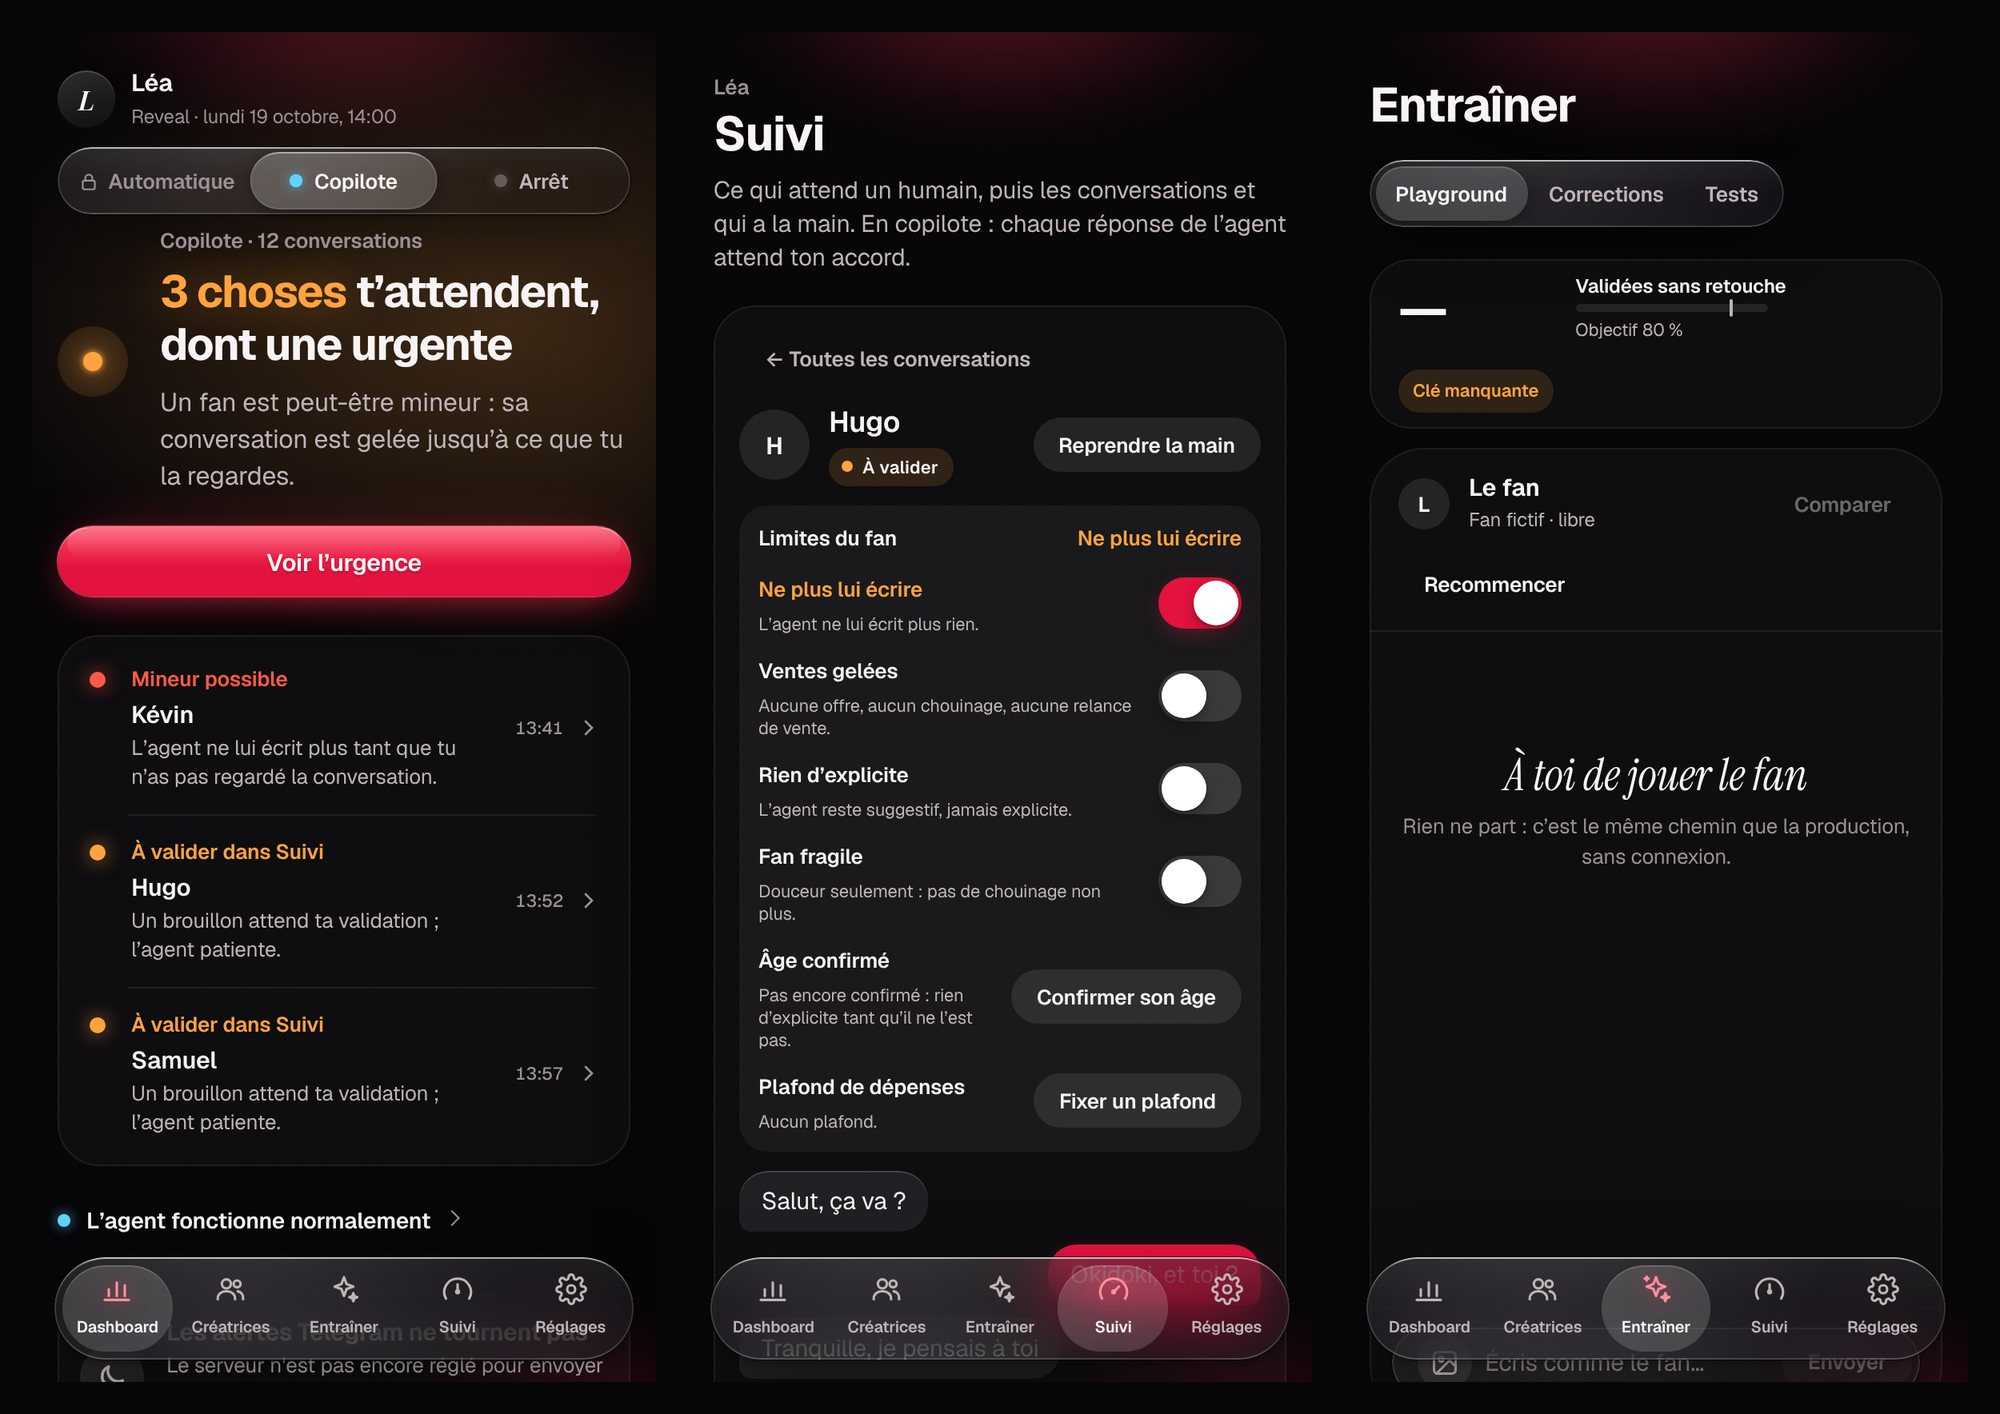
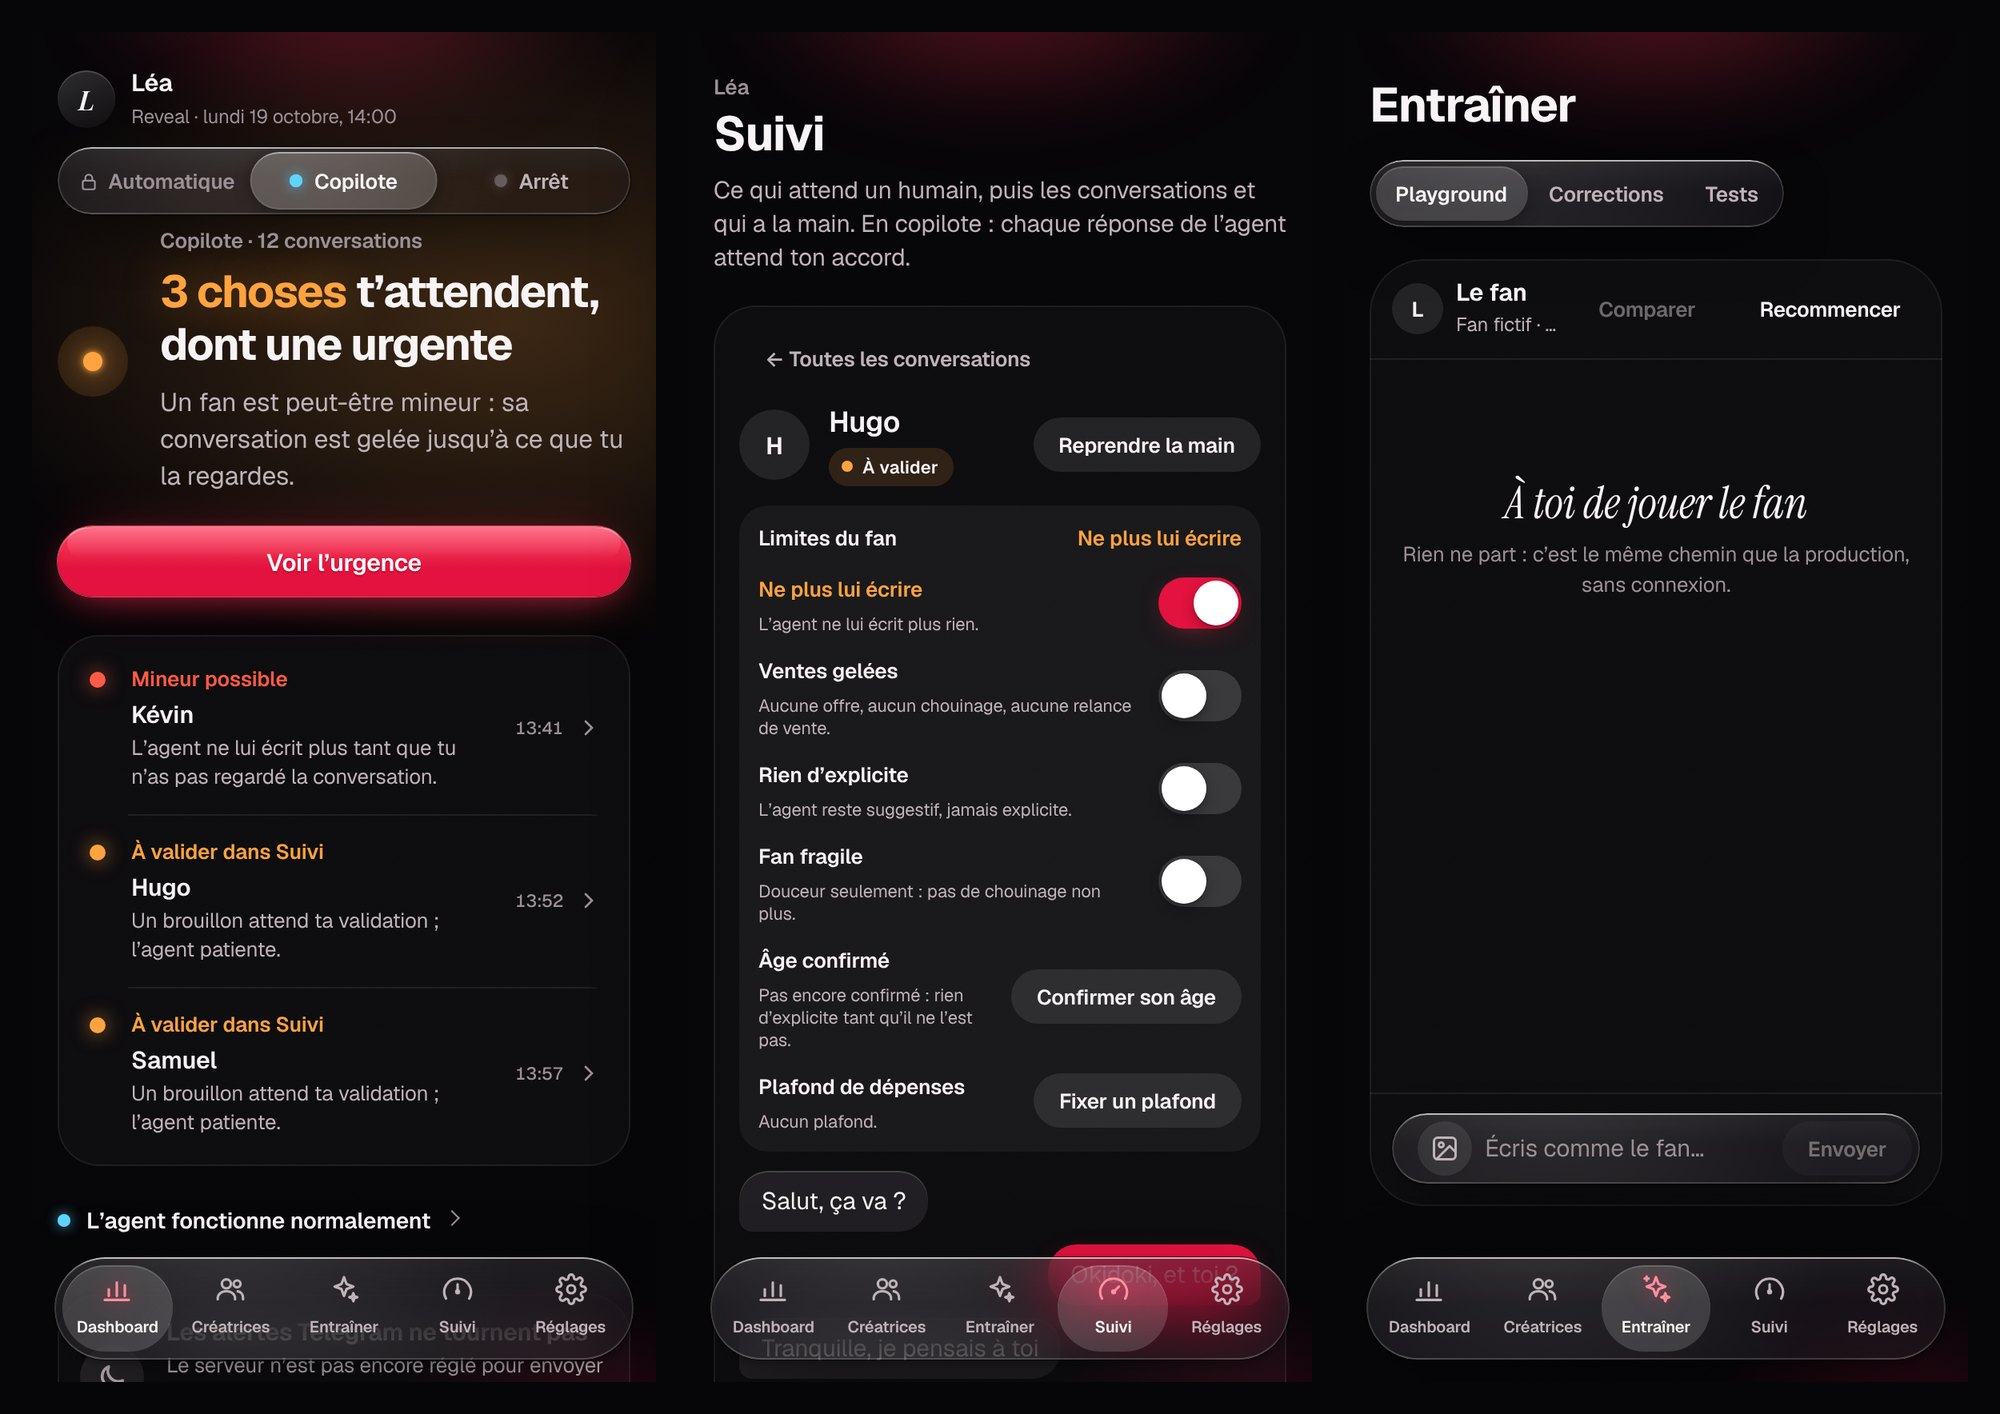
feat(web): phone pass, the Playground holds the screen above the tabs
Claude-Session: https://claude.ai/code/session_013n6wZ4diAF7PiyQ7YNMcEr

diff --git a/apps/web/src/shell/layout.tsx b/apps/web/src/shell/layout.tsx
@@ -1,6 +1,6 @@
 import { placeTabBarLens } from '@nirvana/design-system';
 import { Link, useRouterState, type LinkProps } from '@tanstack/react-router';
-import { useLayoutEffect, useRef, type JSX, type ReactNode } from 'react';
+import { useEffect, useLayoutEffect, useRef, type JSX, type ReactNode } from 'react';
 
 import { cn } from '@/lib/utils';
 
@@ -125,18 +125,52 @@ export function SubNav({ items, label }: { items: readonly SubNavItem[]; label: 
     placed.current = true;
   }, [pathname]);
 
+  // On a phone a section's tabs can be wider than the screen: the nav scrolls, keeps the active tab in view and fades
+  // the edge that hides more tabs, so none is cut off without a sign.
+  useLayoutEffect(() => {
+    const nav = navRef.current;
+    const active = nav?.querySelector('[aria-current="page"]');
+    if (nav === null || !(active instanceof HTMLElement) || nav.scrollWidth <= nav.clientWidth) return;
+    nav.scrollLeft = active.offsetLeft - (nav.clientWidth - active.offsetWidth) / 2;
+  }, [pathname]);
+
+  useEffect(() => {
+    const nav = navRef.current;
+    if (nav === null) return;
+    const mark = (): void => {
+      const start = nav.scrollLeft > 1;
+      const end = nav.scrollLeft + nav.clientWidth < nav.scrollWidth - 1;
+      nav.dataset['more'] = start && end ? 'both' : start ? 'start' : end ? 'end' : 'none';
+    };
+    mark();
+    nav.addEventListener('scroll', mark, { passive: true });
+    const observer = new ResizeObserver(mark);
+    observer.observe(nav);
+    return () => {
+      nav.removeEventListener('scroll', mark);
+      observer.disconnect();
+    };
+  }, []);
+
   return (
-    <nav className="nv-subnav nv-glass nv-glass--thin" aria-label={label} ref={navRef}>
-      <span className="nv-subnav__thumb" ref={thumbRef} aria-hidden="true" />
-      {items.map((item) => (
-        <Link key={item.to} to={item.to} className="nv-subnav__item" activeProps={{ 'aria-current': 'page' }}>
-          {item.label}
-          {item.count === undefined || item.count === 0 ? null : (
-            <span className="nv-subnav__count">{item.count}</span>
-          )}
-        </Link>
-      ))}
-    </nav>
+    <div className="nv-subnav-pill nv-glass nv-glass--thin">
+      <nav className="nv-subnav" aria-label={label} ref={navRef}>
+        <span className="nv-subnav__thumb" ref={thumbRef} aria-hidden="true" />
+        {items.map((item) => (
+          <Link
+            key={item.to}
+            to={item.to}
+            className="nv-subnav__item"
+            activeProps={{ 'aria-current': 'page' }}
+          >
+            {item.label}
+            {item.count === undefined || item.count === 0 ? null : (
+              <span className="nv-subnav__count">{item.count}</span>
+            )}
+          </Link>
+        ))}
+      </nav>
+    </div>
   );
 }
 

diff --git a/apps/web/src/shell/shell.css b/apps/web/src/shell/shell.css
@@ -537,6 +537,13 @@
 }
 
 /* ── Section tabs: one glass capsule, a lit thumb that slides ── */
+/* The glass pill around a section's tabs: it stays put while the tabs scroll inside it on a phone. */
+.nv-subnav-pill {
+  --_radius: var(--nv-radius-full);
+  display: inline-flex;
+  min-width: 0;
+  max-width: 100%;
+}
 .nv-subnav {
   --_radius: var(--nv-radius-full);
   position: relative;
@@ -688,6 +695,11 @@
     overflow: visible;
     padding: 8px 16px calc(110px + env(safe-area-inset-bottom, 0px));
   }
+  /* A fill page takes exactly the screen above the tab bar: its own column scrolls, never the composer away. */
+  .nv-page--fill {
+    height: calc(100dvh - 118px - env(safe-area-inset-bottom, 0px));
+    min-height: 0;
+  }
   .nv-rail {
     --_radius: var(--nv-radius-full);
     position: fixed;
@@ -732,6 +744,16 @@
     max-width: 100%;
     overflow-x: auto;
     scrollbar-width: none;
+  }
+  /* More tabs past an edge: that edge fades out instead of cutting a tab in two. */
+  .nv-subnav[data-more='end'] {
+    mask-image: linear-gradient(to right, #000 calc(100% - 40px), transparent);
+  }
+  .nv-subnav[data-more='start'] {
+    mask-image: linear-gradient(to left, #000 calc(100% - 40px), transparent);
+  }
+  .nv-subnav[data-more='both'] {
+    mask-image: linear-gradient(to right, transparent, #000 40px, #000 calc(100% - 40px), transparent);
   }
   .nv-subnav__item {
     padding: 0 12px;

diff --git a/apps/web/src/screens/train/playground/playground.css b/apps/web/src/screens/train/playground/playground.css
@@ -66,10 +66,6 @@
 .pg-rate--warn {
   --_c: var(--nv-warning);
 }
-.pg-rate--bad {
-  /* Far from the target is still a warning, not an urgency: the red stays the urgencies'. */
-  --_c: var(--nv-warning);
-}
 .pg-rate__v {
   min-width: 2.9em;
   font:
@@ -909,14 +905,33 @@
     bottom: 0;
   }
 }
-/* Phone: one column, the conversation first. */
+/*
+ * Phone: one column. The conversation fills the screen above the tab bar, composer at its foot, as in Messages;
+ * the explanation, the fan and the rate come under it, in the column's own scroll.
+ */
 @media (max-width: 820px) {
   .pg {
+    container-type: size;
+    overflow-y: auto;
+    overscroll-behavior: contain;
+    scrollbar-width: none;
     grid-template-columns: minmax(0, 1fr);
+    /* max-content: the column's height is fixed, so auto rows would never grow past their minimum. */
+    grid-template-rows: none;
+    grid-auto-rows: max-content;
+    align-content: start;
   }
   .pg-main {
     order: 1;
-    min-height: 72vh;
+    height: 100cqh;
+  }
+  .pg-top {
+    flex-wrap: nowrap;
+    gap: 8px;
+    padding: 10px 10px 10px 14px;
+  }
+  .pg-top__t {
+    flex-basis: 0;
   }
   .pg-why {
     order: 2;
@@ -942,6 +957,9 @@
   }
   .pg-setup {
     order: 3;
+  }
+  .pg-bar {
+    order: 4;
   }
   .pg-bar__sp {
     display: none;

diff --git a/apps/web/src/screens/train/playground/Conversation.tsx b/apps/web/src/screens/train/playground/Conversation.tsx
@@ -56,15 +56,17 @@ export function Conversation(props: ConversationProps): JSX.Element {
   const { state, busy, writing } = props;
   const pending = state.pending;
   const draftAt = pendingIndex(state.history, pending);
-  const endRef = useRef<HTMLDivElement>(null);
+  const threadRef = useRef<HTMLDivElement>(null);
   let fanCount = 0;
 
   useEffect(() => {
-    endRef.current?.scrollIntoView({ block: 'end' });
+    // The thread scrolls itself, never the page around it (on a phone the Playground's column scrolls too).
+    const thread = threadRef.current;
+    if (thread !== null) thread.scrollTop = thread.scrollHeight;
   }, [state.history.length, pending, props.mode, writing]);
 
   return (
-    <div className="pg-thread nv-scroll">
+    <div className="pg-thread nv-scroll" ref={threadRef}>
       <div className="nv-thread">
         {state.history.length === 0 && pending === null && !writing ? (
           <Empty
@@ -105,7 +107,6 @@ export function Conversation(props: ConversationProps): JSX.Element {
             {props.error}
           </p>
         )}
-        <div ref={endRef} />
       </div>
     </div>
   );

diff --git a/apps/web/src/screens/train/playground/logic.ts b/apps/web/src/screens/train/playground/logic.ts
@@ -2,12 +2,14 @@ import type { PlaygroundAnswer, PlaygroundState } from '@nirvana/contracts';
 
 import { isHandoff } from './model';
 
-/** Under 60 % the rate is red, under the target amber, at the target neutral: the eye goes where work is. */
-export type RateTone = 'ok' | 'warn' | 'bad';
+/**
+ * Under the target the rate is amber, at the target neutral: the eye goes where work is. Far under it is still a
+ * warning, not an urgency: the red stays the urgencies' (docs/design).
+ */
+export type RateTone = 'ok' | 'warn';
 
 export function rateTone(rate: number | null, target: number): RateTone {
-  if (rate === null || rate >= target) return 'ok';
-  return rate >= 0.6 ? 'warn' : 'bad';
+  return rate === null || rate >= target ? 'ok' : 'warn';
 }
 
 export function percent(rate: number | null): string {

diff --git a/apps/web/src/screens/train/playground/logic.test.ts b/apps/web/src/screens/train/playground/logic.test.ts
@@ -15,10 +15,10 @@ const answer = (patch: Partial<Answer> = {}): Answer => ({
 });
 
 describe('rateTone', () => {
-  it('is neutral at the target, amber under it, red under 60 %', () => {
+  it('is neutral at the target, amber under it, never red', () => {
     expect(rateTone(0.8, 0.8)).toBe('ok');
     expect(rateTone(0.64, 0.8)).toBe('warn');
-    expect(rateTone(0.59, 0.8)).toBe('bad');
+    expect(rateTone(0.2, 0.8)).toBe('warn');
     expect(rateTone(null, 0.8)).toBe('ok');
   });
 });

diff --git a/docs/sessions/log/2026-10-25-d-01-telephone.md b/docs/sessions/log/2026-10-25-d-01-telephone.md
@@ -1,0 +1,7 @@
+# 2026-10-25 — D-01 Refonte : passe téléphone du Playground — done
+Fait : sur téléphone, le Playground prend exactement l'écran entre l'en-tête et la barre d'onglets (`.nv-page--fill` à la hauteur de l'écran sous 820 px) ; la conversation le remplit (`100cqh`), son fil défile seul et le champ reste en pied, au-dessus de la barre, au lieu de passer dessous. Le pourquoi, le fan et le taux viennent sous la conversation, dans le défilement de la colonne. L'en-tête de la conversation tient sur une ligne. Le fil se cale sur la dernière bulle en faisant défiler le fil lui-même, plus la page autour (`scrollIntoView` remplacé). Le ton `bad` du taux, identique à `warn` depuis que le rouge est réservé aux urgences, est retiré : `rateTone` rend `ok` ou `warn`. L'image `crm-telephone.jpg` du guide est refaite. Remarque d'Extension sur #153 : la barre d'onglets de Réglages (cinq onglets) dépassait l'écran du téléphone ; le verre de la capsule ne défile plus avec les onglets (`nv-subnav-pill` autour du `nav`), l'onglet actif est ramené dans la vue et le bord qui cache d'autres onglets s'estompe.
+Pas fait : rien.
+Décisions : aucune.
+Découvertes : une grille à hauteur fixe ne fait pas grandir ses rangées `auto` au-delà de leur minimum quand un élément prend toute la hauteur ; d'où `grid-auto-rows: max-content` sur la colonne.
+Candidats à suppression : aucun.
+Vérifié : pnpm check ✓, tests web ✓, captures Playwright à 390 × 844 en Nuit et en Jour (fil vide, fil long, bas de colonne), bureau et 900 px inchangés.

diff --git a/docs/sessions/tasks/D-01-design-system-liquid-glass.md b/docs/sessions/tasks/D-01-design-system-liquid-glass.md
@@ -58,3 +58,4 @@ Les écrans fonctionnels (inbox, conversation, fan, supervision) : ils arrivent 
 - Fait : images du guide refaites depuis le CRM (Dashboard Nuit et Jour, Suivi, téléphone), palette et typographie rendues depuis `tokens.css`.
 - Reste : passe téléphone (Playground) ; choix du thème Jour, en attente de Charles.
 - Fait (choix de Charles du 25/10) : Réglages › Apparence, Nuit / Jour / Appareil, Nuit par défaut, gardé par le navigateur et posé avant le premier affichage. Reste : passe téléphone (Playground).
+- Fait : passe téléphone. Le Playground tient l'écran au-dessus de la barre d'onglets, champ en pied comme dans Messages ; le pourquoi, le fan et le taux viennent dessous, dans le défilement de la colonne. Le taux sous l'objectif n'a plus qu'un ton (ambre). Les onglets d'une section trop larges pour le téléphone défilent dans leur capsule, bord estompé. Reste : rien sur D-01.

diff --git a/docs/sessions/LOG.md b/docs/sessions/LOG.md
@@ -175,3 +175,4 @@ Découvertes (CI, PR #1) : la CI est rouge sur `main` comme sur la PR, pour deux
 | 2026-10-25 | Refonte : images du guide refaites depuis le CRM (D-01) | done | `log/2026-10-25-d-01-images-guide.md` |
 | 2026-10-25 | Refonte : Réglages › Apparence, Nuit / Jour / Appareil (D-01) | done | `log/2026-10-25-d-01-apparence.md` |
 | 2026-10-25 | Reprise après un Arrêt : les réponses dues partent l’une après l’autre | done | `log/2026-10-25-resume-spacing.md` |
+| 2026-10-25 | Refonte : passe téléphone du Playground, taux en un seul ton (D-01) | done | `log/2026-10-25-d-01-telephone.md` |
